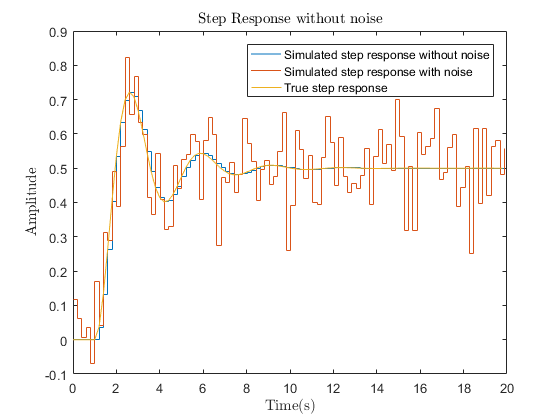
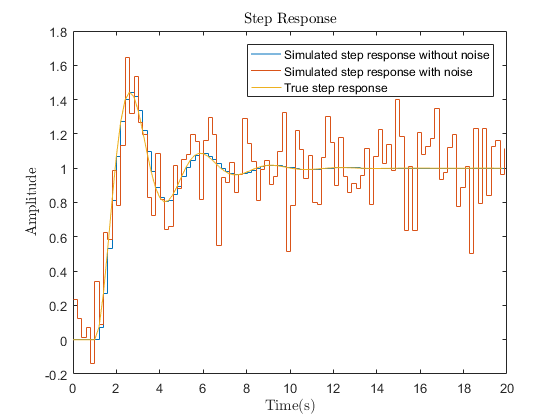
test ce1

diff --git a/ce1_1.m b/ce1_1.m
@@ -17,13 +17,12 @@ saturation = 0.5;
 
 G = tf([4],[1,1,4], 'InputDelay',1);
 G_discrete = c2d(G, Te, 'zoh');
-opt = stepDataOptions('StepAmplitude',saturation);
-[G_step, G_time] = step(G_discrete, sim_time-Te,opt);
+[G_step, G_time] = step(G_discrete, sim_time-Te);
 
-[G_impulse, G_time] = impulse(Te*G_discrete, sim_time-Te);
+[G_impulse, G_time] = impulse(G_discrete, sim_time-Te);
 
 
-input = saturation*[zeros(1/Te,1);ones(sample_length - 1/Te,1)];
+input = [zeros(1/Te,1);ones(sample_length - 1/Te,1)];
 
 simin = struct();
 simin.signals = struct('values', input);
@@ -36,24 +35,24 @@ noiseVariance = 0;
 sim('ce1_1_sim')
 
 figure
-stairs(simin.time(1:maxTime/Te), simout(1:maxTime/Te)); hold on;
+stairs(simin.time(1:maxTime/Te), simout(1:maxTime/Te)/saturation); hold on;
 
 noiseVariance = 0.01;
 sim('ce1_1_sim')
 
-stairs(simin.time(1:maxTime/Te), simout(1:maxTime/Te));hold on; 
+stairs(simin.time(1:maxTime/Te), simout(1:maxTime/Te)/saturation);hold on; 
 
 plot(G_time(1:maxTime/Te), G_step(1:maxTime/Te)); 
 
 
 
-title('Step Response without noise','Interpreter','latex')
+title('Step Response','Interpreter','latex')
 legend('Simulated step response without noise','Simulated step response with noise', 'True step response')
 xlabel('Time(s)','Interpreter','latex')
 ylabel('Amplitude','Interpreter','latex')
 
 
-input = saturation*[zeros(1/Te,1);1;zeros(sample_length - 1/Te-1,1)];
+input = [zeros(1/Te,1);1;zeros(sample_length - 1/Te-1,1)];
 
 simin = struct();
 simin.signals = struct('values', input);
@@ -66,18 +65,18 @@ noiseVariance = 0;
 sim('ce1_1_sim')
 
 figure
-stairs(simin.time(1:maxTime/Te), simout(1:maxTime/Te)); hold on;
+stairs(simin.time(1:maxTime/Te), simout(1:maxTime/Te)/(saturation*Te)); hold on;
 
 noiseVariance = 0.01;
 sim('ce1_1_sim')
 
-stairs(simin.time(1:maxTime/Te), simout(1:maxTime/Te));hold on; 
+stairs(simin.time(1:maxTime/Te), simout(1:maxTime/Te)/(saturation*Te));hold on; 
 
-plot(G_time(1:maxTime/Te), saturation*G_impulse(1:maxTime/Te)); 
+plot(G_time(1:maxTime/Te), G_impulse(1:maxTime/Te)); 
 
 
 
-title('Impulse Response without noise','Interpreter','latex')
+title('Impulse Response','Interpreter','latex')
 legend('Simulated impulse response without noise','Simulated impulse response with noise', 'True impulse response')
 xlabel('Time(s)','Interpreter','latex')
 ylabel('Amplitude','Interpreter','latex')
@@ -105,7 +104,8 @@ legend('PRBS with n = 5 and p = 4')
 close all;
 clc;
 
-a = -0.4;
+noiseVariance = 0.01;
+a = -0.3;
 b = -a;
 sim_time = 100; % seconds
 N = sim_time/Te;
@@ -125,15 +125,22 @@ k = 300;
 Uk = U(:,1:k);
 
 theta = pinv(Uk)*Y;
+theta = theta;
 
 %theta = U\Y;
 
 figure
-plot(simin.time(1:k), theta);
+stairs(simin.time(1:maxTime/Te), theta(1:maxTime/Te));hold on;
+
+G = tf([4],[1,1,4]);
+G_discrete = c2d(G, Te, 'zoh');
+[G_impulse, G_time] = impulse(Te*G_discrete, sim_time-Te);
+plot(G_time(1:maxTime/Te), G_impulse(1:maxTime/Te)); 
 
 
-% hold on;
-% impulse(Z);
-
+title('Impulse Response using Numerical Deconvolution','Interpreter','latex')
+legend('Estimated impulse response','True impulse response')
+xlabel('Time(s)','Interpreter','latex')
+ylabel('Amplitude','Interpreter','latex')
 %%
 
